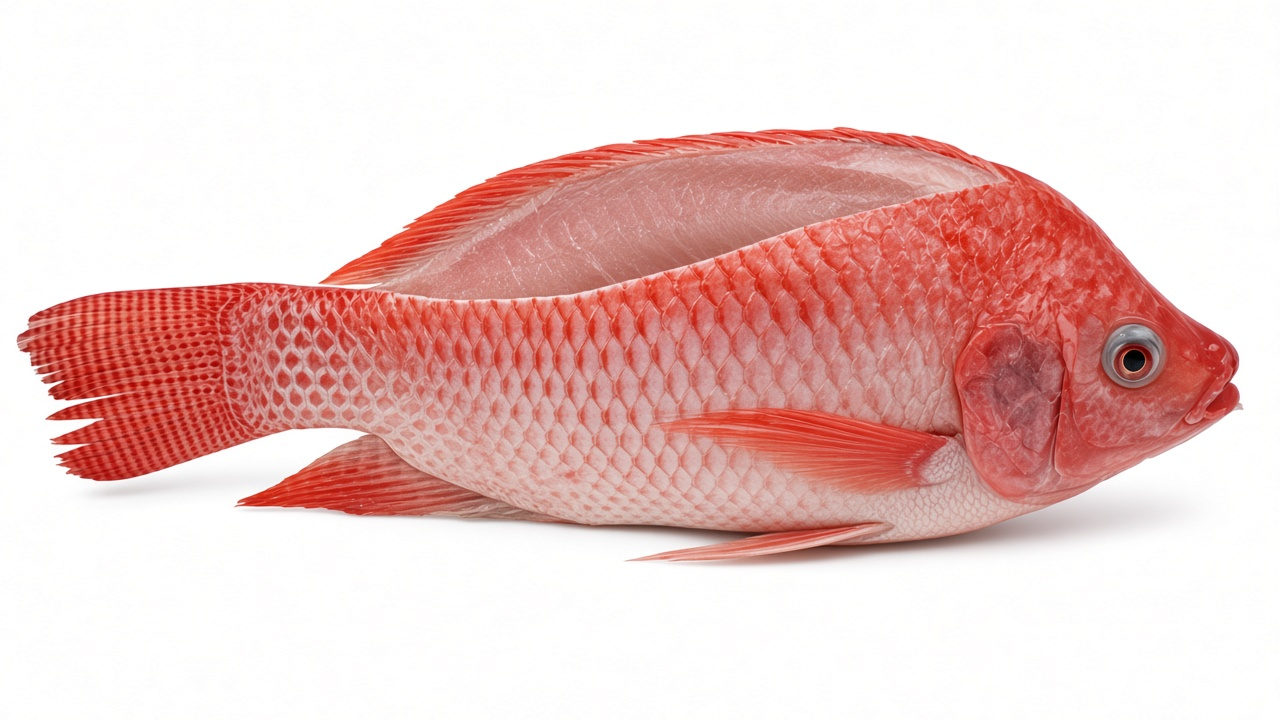
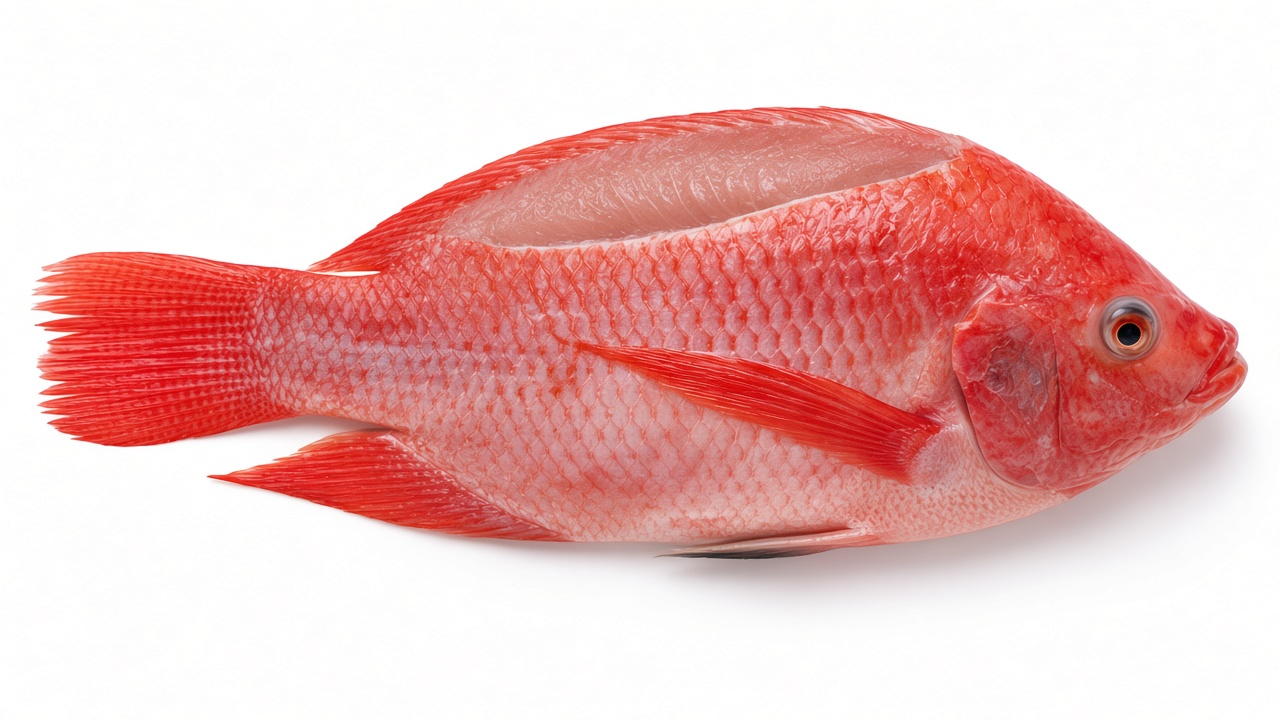
Recolor the original pocket and posta photos as red tilapia.

diff --git a/index.html b/index.html
@@ -18,7 +18,7 @@
       href="https://fonts.googleapis.com/css2?family=Fraunces:opsz,wght@9..144,500;9..144,700&family=Manrope:wght@400;500;600;700&family=Noto+Sans+SC:wght@400;500;700&display=swap"
       rel="stylesheet"
     />
-    <link rel="stylesheet" href="css/styles.css?v=oct22" />
+    <link rel="stylesheet" href="css/styles.css?v=oct23" />
   </head>
   <body>
     <div class="sea" aria-hidden="true">
@@ -353,6 +353,6 @@
       <span data-i18n="footerNote"></span>
     </footer>
 
-    <script src="js/app.js?v=oct22"></script>
+    <script src="js/app.js?v=oct23"></script>
   </body>
 </html>

diff --git a/js/app.js b/js/app.js
@@ -918,7 +918,7 @@ const PHOTO_FILES = new Set([
 ]);
 
 function mediaBox(folder, keys, fallback) {
-  const bust = "oct22";
+  const bust = "oct23";
   const srcs = [];
   for (const key of keys) {
     [".jpg", ".jpeg", ".png", ".webp"].forEach((ext) => {
